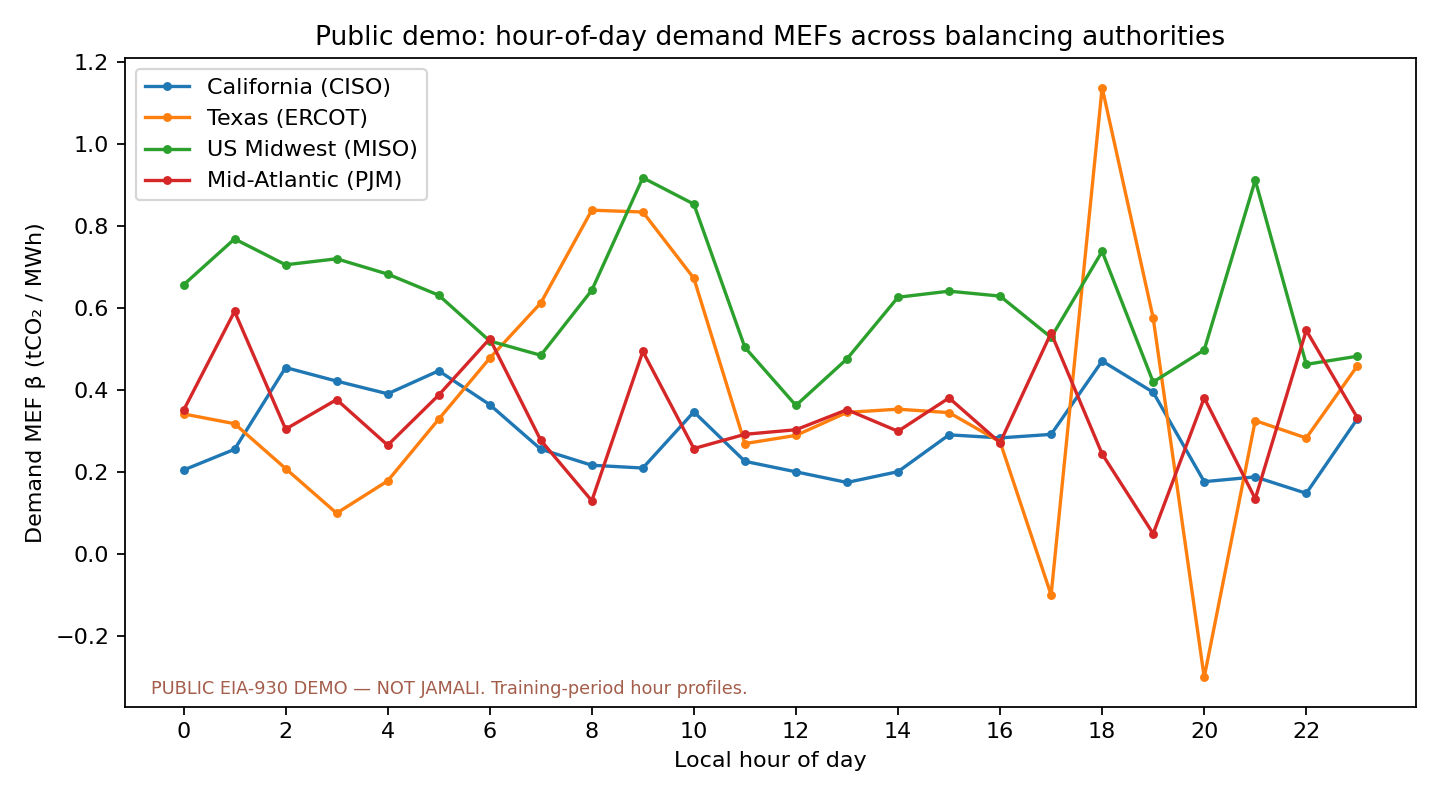
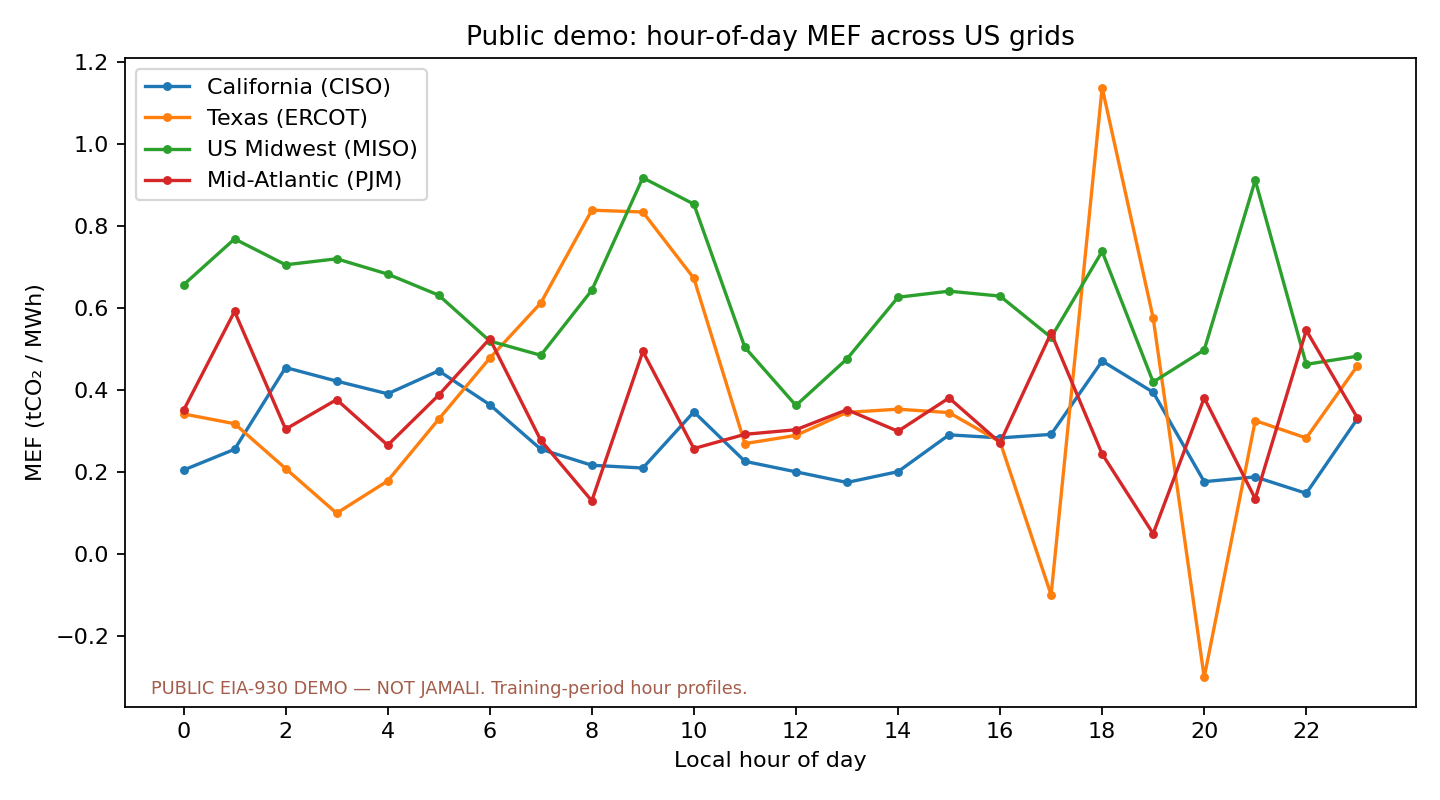
Clarify hour-of-day MEF demo labels with US grid locations.

Changed region(s): [[0.2188, 0.0312, 0.8438, 0.0625], [0.0, 0.2812, 0.0312, 0.6875]]

diff --git a/mef_research/pilot_m1/run_public_comparisons.py b/mef_research/pilot_m1/run_public_comparisons.py
@@ -27,6 +27,12 @@ BA_LABELS = {
     "MISO": "US Midwest\n(MISO)",
     "PJM": "Mid-Atlantic\n(PJM)",
 }
+BA_SHORT = {
+    "CISO": "California (CISO)",
+    "ERCO": "Texas (ERCOT)",
+    "MISO": "US Midwest (MISO)",
+    "PJM": "Mid-Atlantic (PJM)",
+}
 TRAIN_FRACTION = 0.75
 
 
@@ -182,18 +188,56 @@ def plot_multi_ba_hour(profiles: pd.DataFrame, path: Path) -> None:
             part["hour"],
             part["demand_mef"],
             "-o",
-            label=BA_LABELS.get(ba, ba).replace("\n", " "),
+            label=BA_SHORT.get(ba, ba),
             markersize=3,
         )
     ax.set_xlabel("Local hour of day")
-    ax.set_ylabel("Demand MEF β (tCO₂ / MWh)")
-    ax.set_title("Public demo: hour-of-day demand MEFs across balancing authorities")
+    ax.set_ylabel("MEF (tCO₂ / MWh)")
+    ax.set_title("Public demo: hour-of-day MEF across US grids")
     ax.set_xticks(range(0, 24, 2))
     ax.legend()
     ax.text(
         0.02,
         0.02,
         "PUBLIC EIA-930 DEMO — NOT JAMALI. Training-period hour profiles.",
+        transform=ax.transAxes,
+        fontsize=8,
+        color="#a35d4a",
+    )
+    fig.tight_layout()
+    fig.savefig(path, dpi=160)
+    plt.close(fig)
+
+
+def plot_ciso_erco_hour(profiles: pd.DataFrame, summary: pd.DataFrame, path: Path) -> None:
+    """Two-grid hour-of-day MEF chart used on the midterm slide."""
+    fig, ax = plt.subplots(figsize=(9, 5))
+    colors = {"CISO": "#2f5d8a", "ERCO": "#d17a22"}
+    overall = {
+        row["ba"]: float(row["demand_mef_tco2_per_mwh"])
+        for _, row in summary.iterrows()
+    }
+    for ba in ("CISO", "ERCO"):
+        part = profiles.loc[profiles["ba"] == ba].sort_values("hour")
+        beta = overall.get(ba, float("nan"))
+        ax.plot(
+            part["hour"],
+            part["demand_mef"],
+            "-o",
+            color=colors[ba],
+            label=f"{BA_SHORT[ba]} — overall MEF = {beta:.2f} t/MWh",
+            markersize=4,
+        )
+    ax.set_xlabel("Local hour of day")
+    ax.set_ylabel("MEF (tCO₂ / MWh)")
+    ax.set_title("Public demo: hour-of-day MEF — California (CISO) vs Texas (ERCOT)")
+    ax.set_xticks(range(0, 24, 2))
+    ax.axhline(0.0, color="#bbbbbb", linewidth=0.8)
+    ax.legend(loc="upper left")
+    ax.text(
+        0.02,
+        0.02,
+        "PUBLIC DEMO — NOT JAMALI. Constructed CO₂; demand-based regression.",
         transform=ax.transAxes,
         fontsize=8,
         color="#a35d4a",
@@ -217,6 +261,12 @@ def main() -> None:
     plot_aef_vs_mef(summary, OUT / "aef_vs_demand_mef.png")
     plot_demand_vs_fossil(summary, OUT / "demand_vs_fossil_mef.png")
     plot_multi_ba_hour(hour_profiles, OUT / "multi_ba_hour_demand_mef.png")
+    ciso_erco_name = "ciso_erco_hour_profile_compare.png"
+    plot_ciso_erco_hour(hour_profiles, summary, OUT / ciso_erco_name)
+    # Keep slide-facing copies next to the public demo inputs and report assets.
+    for dest_dir in (DEMO, HERE.parent / "report_draft" / "assets"):
+        dest_dir.mkdir(parents=True, exist_ok=True)
+        (dest_dir / ciso_erco_name).write_bytes((OUT / ciso_erco_name).read_bytes())
 
     meta = {
         "disclaimer": "PUBLIC EIA-930 DEMO — NOT A JAMALI MEF",
